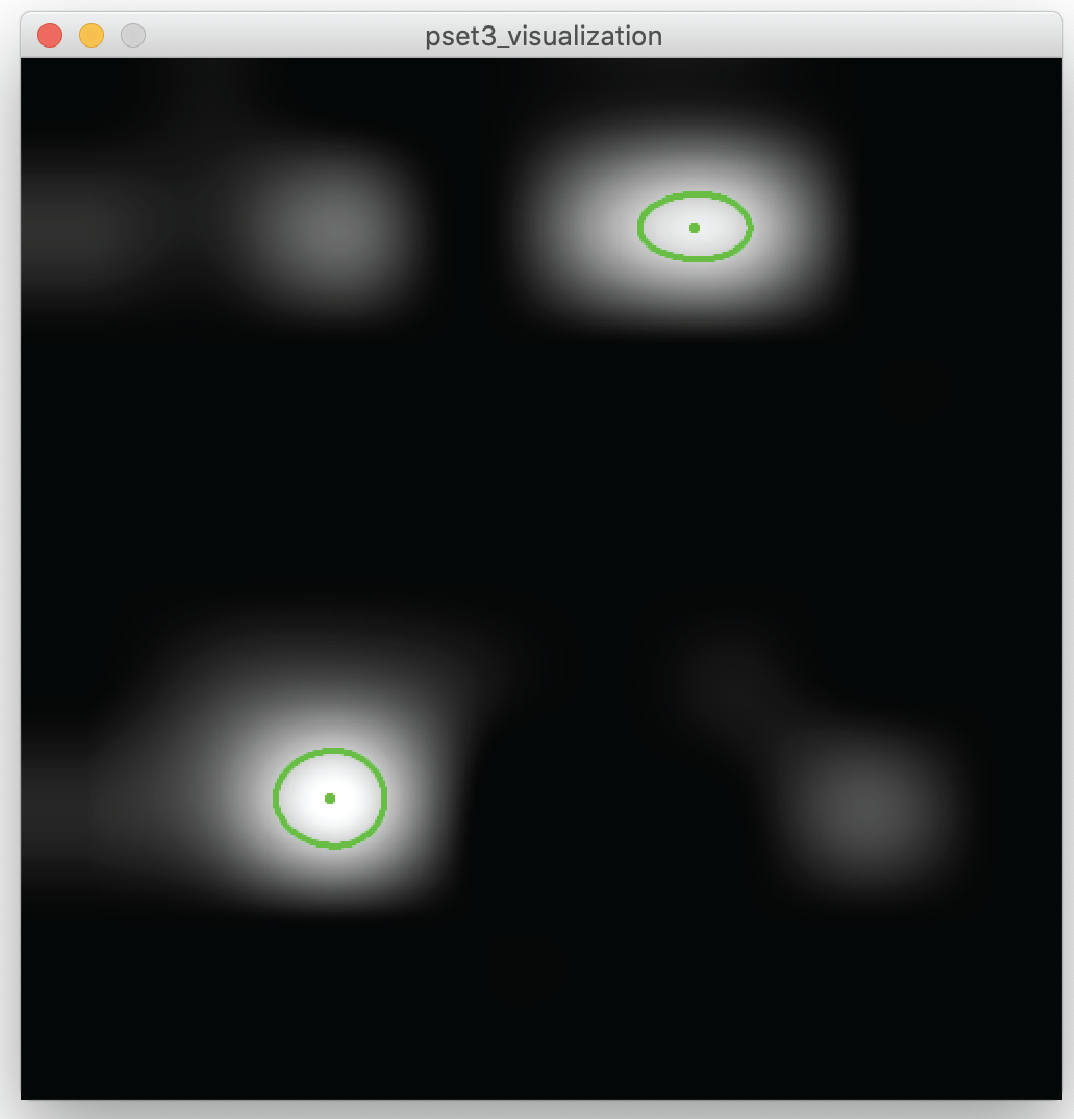
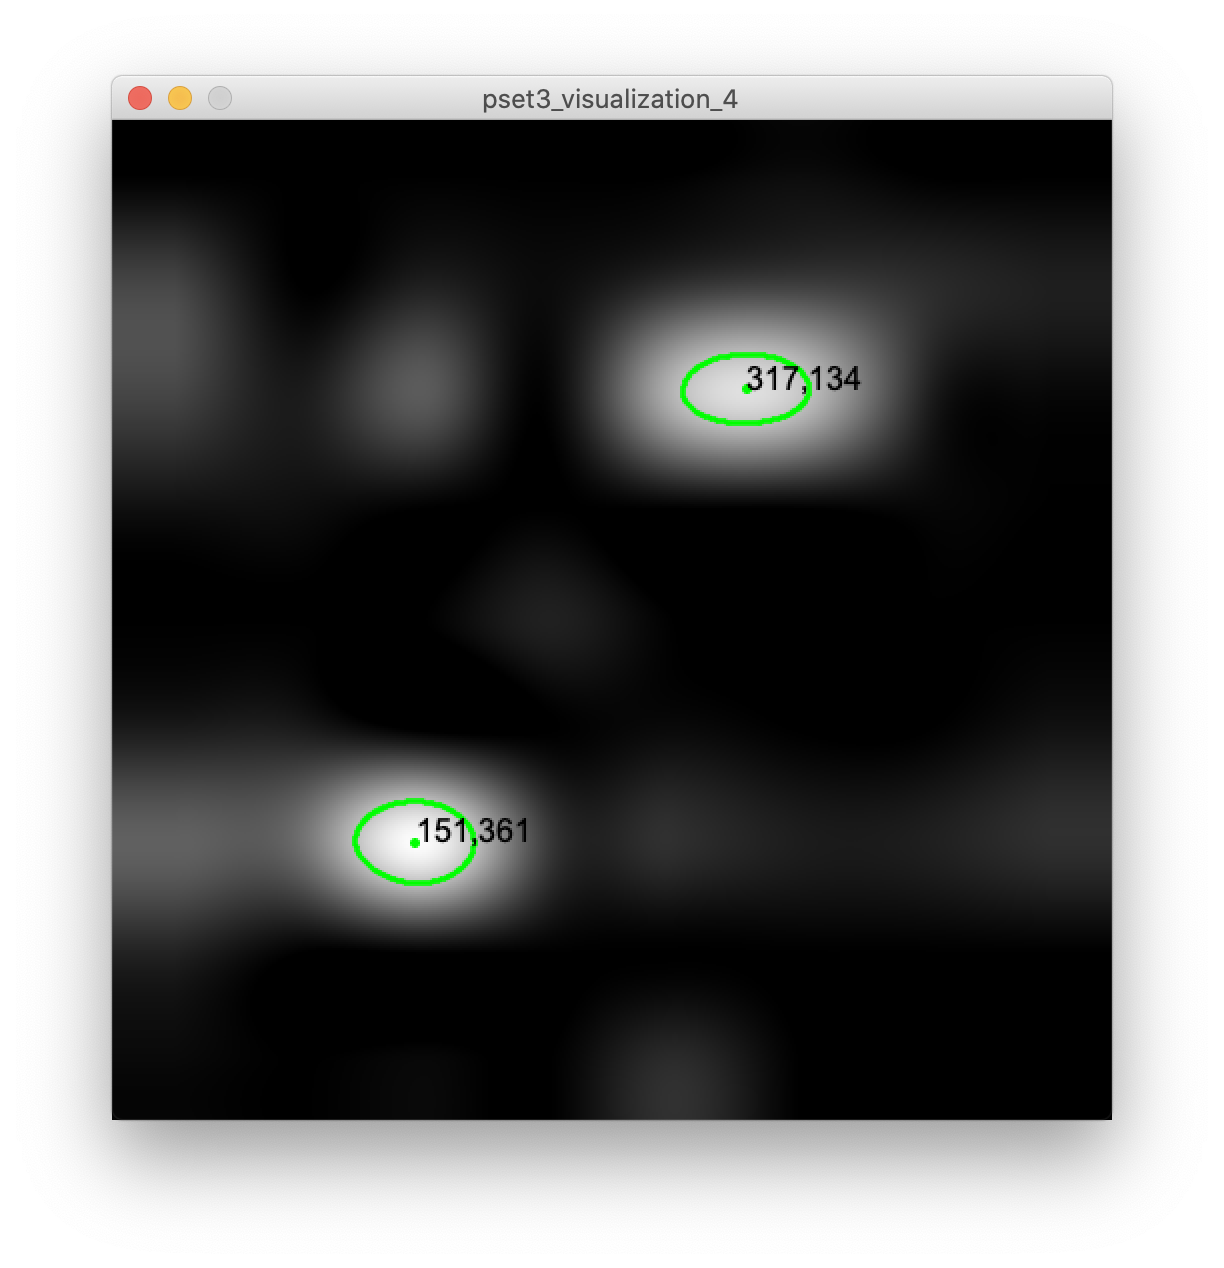
6810 pset3 updates after Faraz's testing

diff --git a/classes/2020-fall-6810/pset3-visualization.html b/classes/2020-fall-6810/pset3-visualization.html
@@ -53,7 +53,7 @@
 
 
 <img src="images/pset2-overall.png" width="400px">
-<img src="images/pset3/multi-touch_3-fingers.png" width="300px"> <br>
+<img src="images/pset3/UI-blob-touch-3.png" width="340px"> <br>
 
           <hr>
 
@@ -73,7 +73,7 @@ Now that you have the hardware ready and Arduino sensing code prepared, you will
 
 <h3>Skeleton Code</h3>
 
-Start by downloading <a href="software/pset3_visualization_skeleton_v2.zip">the skeleton code for the PSet3 from  here</a>. <br>
+Start by downloading <a href="software/pset3_visualization_skeleton_v3.zip">the skeleton code for the PSet3 from  here</a>. <br>
 Before you can execute it, you first have to install two libraries (see next step). <br><br>
 
 <h3>Install external libraries</h3>
@@ -133,7 +133,7 @@ This is what we call "noise" in signal processing.<br><br>
 
 <b>What causes noise?</b><br>
 Noise can be caused by a variety of factors.<br>
-On the entire multi-touch pad, noise can be caused by the substrate the multi-touch pad is placed on, i.e. depending on if you place it on a glass table or a metal table the noise level will be different.<br>Additionally, noise can be different at each of the connection points in the circuit. For instance, each FPC connector and each wire may have different noise levels since the conductive lines all make slightly different levels of contact.<br>
+On the entire multi-touch pad, noise can be caused by the substrate the multi-touch pad is placed on, i.e. depending on if you place it on a glass table or a wooden table the noise level will be different.<br>Additionally, noise can be different at each of the connection points in the circuit. For instance, each FPC connector and each wire may have different noise levels since the conductive lines all make slightly different levels of contact.<br>
 Furthermore, since the inkjet printed circuit may not be perfectly consistent everywhere either because of uneven printing or because of different aging levels over time, the different printed paths may also have different levels of noise.<br>
 Finally, in addition to the reasons above, we can also have different noise levels on a single row of electrodes because the distance between the receiver pin and each electrode in the row is different, thus the electodes further away accumulate noise over a larger distance.<br>
 All of these factors together result in different noise levels at each point in your multi-touch pad.<br><br> 
@@ -149,7 +149,7 @@ In our case, we will implement a simple noise baseline filter.<br><br>
 <b>How does a noise baseline filter work?</b><br>
 A noise baseline filter works in two steps:<br><br>
 
-<i>(1) Record Noise Baseline Signal:</i> First, you need to record the signal when you are <b>not</b> touching the multi-touch pad. The signal is recorded over some period of time and the recorded values are then averaged and saved as the noise baseline value. You only have to do this once at the beginning. In our case, we found that recording <b>2 seconds</b> of non-touch sensing data is sufficient for the multi-touch noise reduction. Note that we record the noise baseline for every position in our multi-touch pad for the reasons mentioned above, i.e. that every position has its own level of noise. We therefore record the noise baseline for every received <b>value</b> and thus we are having 9x8 = 72 noiseline base values in total.<br><br> 
+<i>(1) Record Noise Baseline Signal:</i> First, you need to record the signal when you are <b>not</b> touching the multi-touch pad. The signal is recorded over some period of time and the recorded values are then averaged and saved as the noise baseline value. You only have to do this once at the beginning (and please only do it once). In our case, we found that recording <b>2 seconds</b> of non-touch sensing data is sufficient for the multi-touch noise reduction. Note that we record the noise baseline for every position in our multi-touch pad for the reasons mentioned above, i.e. that every position has its own level of noise. We therefore record the noise baseline for every received <b>value</b> and thus we are having 9x8 = 72 noiseline base values in total.<br><br> 
 
 Implement the noise baseline filtering in the <b>setBaseLine()</b> function and change the <b>boolean baseLineSet</b> in the skeleton code to "true" once the baseline is set. <br>
 You will find the Java's native <b><i>System.nanoTime()</i></b> or Processing's <b><i>millis()</i></b> funtion to be helpful. For more details, you can look at <a href="https://processing.org/reference/millis_.html"> the reference here </a>.<br><br>
@@ -174,10 +174,10 @@ While there are multiple different ways to find our where the multi-touch pad wa
 First, we will convert our sensor signals into grayscale values and then draw the grayscale values into a 9x8 pixel image.<br> 
 Brighter pixels will correspond to higher sensor signals (i.e. touch points) while darker pixels will correspond to areas that were not touched.<br>
 Since image processing on such a small 9x8 pixel image is too difficult, we will increase the size of the image to 500x500px using bicubic interpolation to fill in for the missing pixel values.<br>
-After this, we can use 'blob' detection to extra the white blobs in the image (i.e. the touch points) and get the touch coordinates from the blobs.<br>
-Let's do this one step at a time.<br><br>
+After this, we can use 'blob' detection to extract the white blobs in the image (i.e. the touch points) and get the touch coordinates from the blobs.<br>
+Let's do this one step at a time.<br>
 
-<img src="images/pset3/multi-touch_3-fingers-cropped.png" width="300px"><br><br>
+<img src="images/pset3/UI-blob-touch-3.png" width="400px"><br>
 
 <b>Creating the Image</b><br>
 For our visualization, we will construct an image (PImage) the same size as our 2D array that contains the sensing data.<br>
@@ -193,13 +193,13 @@ Before we can draw our sensor signals into the PImage as grayscale values, we ha
 We therefore have to scale our sensor signals accordingly.<br><br> 
 
 To scale your sensor values to a range of 0 - 255, you can use <a href="https://processing.org/reference/map_.html">the <b>map()</b> function</a> in Processing.<br>
-As you can see in <a href="https://processing.org/reference/map_.html">the map() function reference,</a> we have to set four different values:<br><br>
+As you can see in <a href="https://processing.org/reference/map_.html">the map() function reference,</a> apart from the incoming value to be converted, we also have to set four "scaling" values:<br><br>
 
 <img src="images/pset3/map-function-parameters.png" width="400px"> <br><br>
 
 <b>start2/stop2 (target):</b> The last two parameters, i.e. our target range, are pretty straight forward since we already discussed we want to scale to 0 - 255.<br><br>
 
-<b>start1/stop1 (source):</b> For the source parameters, use the highest sensor reading when you are not touching and lowest sensor reading when you are touching. We will revisit this later and it will become more clear why that is a good strategy.<br><br>
+<b>start1/stop1 (source):</b> For the source parameters, use the middle-to-low end sensor reading when you are not touching for start1, and middle-to-high sensor reading when you are touching for stop1. You can think of these 2 parameters as "min-input-range" and "max-input-range" of your incoming sensing data. We will revisit this later and it will become more clear why that is a good strategy.<br><br>
 
 After you scaled your sensor values, use them to set the pixel color of each pixel in the 9x8 pixel PImage.<br><br>
 
@@ -223,18 +223,28 @@ Some of simplest interpolation methods are bi-linear and bi-cubic interpolation.
 
 <b>What is the difference between bi-linear and bi-cubic interpolation?</b><br>
 
-<i>Bi-linear interpolation:</i> <span style="color:red">is performed using linear interpolation first in one direction, and then again in the other direction. For instance, in the example below where we want to determine the value of the central pixel, we first interpolate the value of the top and bottom pixel, and then interpolate the left and right pixel. We then average both the interpolate values to retrieve the final pixel value).</span><br><br>
+<i>Bi-linear interpolation:</i> considers the closest 2x2 neighborhood of known pixel values surrounding the unknown pixel. It then takes a weighted (by distance) average of these 4 pixels to arrive at its final interpolated value.<br><br>
+<img src="images/pset3/linear-1.png" width="230px">
+<img src="images/pset3/linear-2.png" width="230px">
+<img src="images/pset3/linear-3.png" width="230px"> <br><br>
 
-<i>Bi-cubic interpolation:</i> is performed by taking into account <span style="color:red">16 (4x4) (really?)</span> neighboring pixels. To compute the needed pixel value, all values are <span style="color:red">averaged together?</span>
+<i>Bi-cubic interpolation:</i> is considering the closest 4x4 neighborhood of known pixels — for a total of 16 pixels. Since these are at various distances from the unknown pixel, closer pixels are given a higher weighting in the calculation. Bicubic produces noticeably smoother images than the bi-linear interpolation. 
 
 <br> <br>
 
-<img src="images/pset3/bilinear-bicubic.png" width="700px"> <br>
+<img src="images/pset3/cubic-1.png" width="230px">
+<img src="images/pset3/cubic-2.png" width="230px">
+<img src="images/pset3/cubic-3.png" width="270px"> <br><br>
 
-Thus, a benefit of bicubic interpolation is that it gives you a more accurate and smoother interpolation result since it considers more values than bilinear interpolation. However, this also comes at the drawback of needing higher computational power since more values need to be processed to generate the interpolated value. For our small multi-touch pad with only a few hundred interpolated values this is not an issue but if you had to do more interpolation it may slow the processing down and the multi-touch pad detection would start lagging behind the user's finger movements.<br><br>
+Thus, a benefit of bicubic interpolation is that it gives you a smoother interpolation result since it considers more values than bilinear interpolation. However, this also comes at the drawback of needing higher computational power since more values need to be processed to generate the interpolated value. For our small multi-touch pad with only a few hundred interpolated values this is not an issue but if you had to do more interpolation it may slow the processing down and the multi-touch pad detection would start lagging behind the user's finger movements.<br><br>
 
 
-You can see the difference of bi-liner vs. bi-cubic interpolation in the images below (these are from the internet and not from our multi-touch pad <span style="color:red">(Junyi: it would be a lot better to show the result at the example of our multi-touch pad being touched, if this is just a opencv function, can you take these pictures?)</span>). In the images the input data was 5x5px and it was scaled up to <span style="color:red">what image size?</span><br><br>
+You can see the difference of bi-liner vs. bi-cubic interpolation in the images below (these are from our multi-touch pad with roughly the same location touched by finger, <b><i>Left: Bilinear vs. Right: Bicubic) </i></b>.<br> 
+
+<img src="images/pset3/multi-touch-interpolate-bilinear.png" width="350px"> 
+<img src="images/pset3/multi-touch-interpolate-bicubic.png" width="350px"> <br><br>
+
+For a more close look, below are the resulting interpolated images from a 5x5 input data via bi-linear and bi-cubic.<br><br>
 
 <img src="images/pset3/linear-interpolation.png" width="300px"> 
 <img src="images/pset3/cubic-interpolation.png" width="300px"> <br><br>
@@ -263,7 +273,7 @@ So let's see how we can fill out the parameters.<br><br>
 <b>Mat src:</b> This is the input image (9x8px) that we want to resize. As you can see, the image here is in the format <b>Mat</b> (Matrix) and not PImage. We therefore first have to convert our PImage into a Mat. In image processing, images are handles as 2D matrices, where every matrix entry is the color value of one pixel (i.e. 0-255 in our case). You can also think of the 2D matrix as a 2D array with pixel values in rows and columns.<br>
 Before we can convert our PImage into a Mat, we first have to construct a new OpenCV object.<br> 
 For this, you need to call the corresponding OpenCV constructor in the <a href="http://atduskgreg.github.io/opencv-processing/reference/gab/opencv/OpenCV.html">OpenCV class documentation</a>.<br>
-Once you constructed your OpenCV object, you can call the <b>getGray()</b> function on it to retrieve the image as a Mat (check <a href="http://atduskgreg.github.io/opencv-processing/reference/gab/opencv/OpenCV.html">the OpenCV class documentation</a> again). This is your src input parameter. <br><br>
+Once you constructed your OpenCV object, you can call the <b>getGray()</b> function on it to retrieve the image as a Mat (check <a href="http://atduskgreg.github.io/opencv-processing/reference/gab/opencv/OpenCV.html">the OpenCV class documentation</a> again). This is your src input parameter for interpolation. <br><br>
 
 <b>Mat dest:</b> This is the output image, i.e. the resized 500x500px image. Again it needs to be in the format of a matrix. For the output image, we want to create a new empty matrix of our desired size. You can find the <a href="https://docs.opencv.org/3.4/javadoc/org/opencv/core/Mat.html"><b>OpenCV Mat Reference</b> here</a>. 
 
@@ -302,11 +312,11 @@ left: 1 finger touching, right: 2 fingers touching <br>
 <img src="images/pset3/UI-no-blob-touch-2.png" width="350px"> <br><br>
 
 <b>Improving your Results</b><br>
-If your results don't look as good as above, try changing how you map your sensors signals to the grayscale values from 0 - 255.<br> 
-Remember, when you mapped your sensor signals to the 0 - 255 range, we had recommended that you use the highest sensor reading when not touching to map to 0 (black), and the lowest sensor reading when touching to 255 (white). <br>
-Let's assume for a moment your lowest sensor reading when touching was 1500 and you mapped it to 255 (white). As a result, any sensor reading above 1500 is now leading to white pixels, whereas anything below will lead to darker pixels. If you find that you only see dark areas in your image and nothing is white, then perhaps the 1500 threshold is too high. Consider using a lower value to increase what signal values are being treated as 'touched' white pixels.<br> 
-Similarly, if you see too much noise in your image, i.e. everything is white, perhaps your non-touch sensor reading value is too low and you should set it to something higher, so that more signal values are treated as black non-touch pixels. <br>
-Note that you may have to adjust these values every time you change the setup in which you use your multi-touch pad. For instance, if place your multi-touch pad on a different surface (glass vs. metal table) or if anything else in your environment undergoes a significant change (e.g. increase in humidity), the sensor values and the noise level may change. We therefore recommend you find yourself a place where you do the calibration once and then try to not change it too much.<br><br>
+If your results don't look as good as above, try changing how you map your sensors signals to the grayscale values of 0 - 255.<br> 
+Remember, when you mapped your sensor signals to the 0 - 255 range, we had recommended that you use the middle-to-low sensor reading when not touching to map to 0 (black), and the middle-to-high sensor reading when touching to 255 (white). <br>
+Let's assume for a moment your middle-to-high sensor reading when touching was 1500 and you mapped it to 255 (white). As a result, any sensor reading above 1500 is now leading to white pixels, whereas anything below will lead to darker pixels. If you find that you only see dark areas in your image and nothing is white (or not "white" enough) when touched, then perhaps the 1500 threshold is too high. Consider using a lower value to increase what signal values are being treated as 'touched' white pixels.<br> 
+Similarly, if you see too much noise in your image, i.e. everything is white (or multiple areas get "too white" when only touching with one finger), perhaps your non-touch sensor reading value is too low and you should set it to something higher, so that more signal values are treated as black non-touch pixels. <br>
+Note that you may have to slightly adjust these values when you change the setup in which you use your multi-touch pad. For instance, if place your multi-touch pad on a different surface (glass vs. wooden table) or if anything else in your environment undergoes a significant change (e.g. increase in humidity), the sensor values and the noise level may change. We therefore recommend you find yourself a place where you do the calibration once and then try to not change it too much.<br><br>
 
 <h3>(5) Implement blob detection</h3>
 
@@ -332,7 +342,7 @@ You can see an example of thresholding below: all the dark gray values (e.g., al
 
 <img src="images/pset3/threshold.jpg" width="550px"> <br><br>
 
-Our library does the thresholding automatically when we call its computeBlobs() function (we will do this in a minute, keep reading). However, if your blob detection is not finding all the blobs in your image, consider using the <b>setThreshold()</b> function to determine which grayscale level from 0-255 will be used to determine which pixels will become white and thus potential blobs and which pixels will be set to black. Note that the threshold takes as input a value from 0-1 so you need to scale your values accordingly.<br><br>
+Our library does the thresholding automatically when we call its computeBlobs() function (we will do this in a minute, keep reading). However, if your blob detection is not finding all the blobs in your image, consider using the <b>setThreshold()</b> function to determine which grayscale level from 0-255 will be used to determine which pixels will become white and thus potential blobs and which pixels will be set to black. Note that the threshold takes as input a float value from 0-1 so you need to scale your values accordingly.<br><br>
 
 <b>Blob Detection Looks for 'Connected Components'</b><br>
 Once the image is converted into black/white, the blob detection starts to look for areas that form larger blobs.<br>
@@ -397,8 +407,7 @@ You can find the <a href="http://www.v3ga.net/processing/BlobDetection/index-pag
 First, construct a new object of the BlobDetection class using our interpolated PImage height and width.<br>
 You can then use the <b>computeBlobs()</b> function to detect the blobs.<br>
 Finally, the <b>getBlob()</b> and <b>getBlobNb()</b> functions can help you to retrieve the blobs.<br>
-If your blob detection is not finding all the blobs in your image, consider using the <b>setThreshold()</b> function to determine which brightness levels from 0-255 should be taking into account when searching for blobs. Note that the threshold takes as input a value from 0-1 so you need to scale your values accordingly.<br><br>
-<span style="color:red">Junyi, is there a function where you can set how large the blobs should be that should be considered in the output? I imagine otherwise it will find some super small blobs that are not the size of a finger? Can you add this here.</span><br><br>
+If your blob detection is not finding all the blobs in your image, consider using the <b>setThreshold()</b> function to determine which brightness levels from 0-255 should be taking into account when searching for blobs. Note that the threshold takes as input a float value from 0-1 so you need to scale your values accordingly.<br><br>
 
 Implement this in the <b>drawBlobsAndEdges()</b> function in the skeleton code (note that we will do the drawing of the blob outline in the next step): <br><br>
 
@@ -424,10 +433,9 @@ Drawing the contour, touch point, and text coordinates into the image is similar
 
 Once you finished this part, you should be seeing something like this depending on if one or multiple fingers are touching: <br><br>
 
-<span style="color:red">update images with touch coordinates (x,y)</span><br>
-<img src="images/pset3/UI-blob-touch-1.png" width="350px"> 
-<img src="images/pset3/UI-blob-touch-2.png" width="350px"> 
-<img src="images/pset3/UI-blob-touch-3.png" width="350px"> <br>
+<img src="images/pset3/UI-blob-touch-1.png" width="370px"> 
+<img src="images/pset3/UI-blob-touch-2.png" width="370px"> 
+<img src="images/pset3/UI-blob-touch-3.png" width="370px"> <br>
 
 <br>
 
